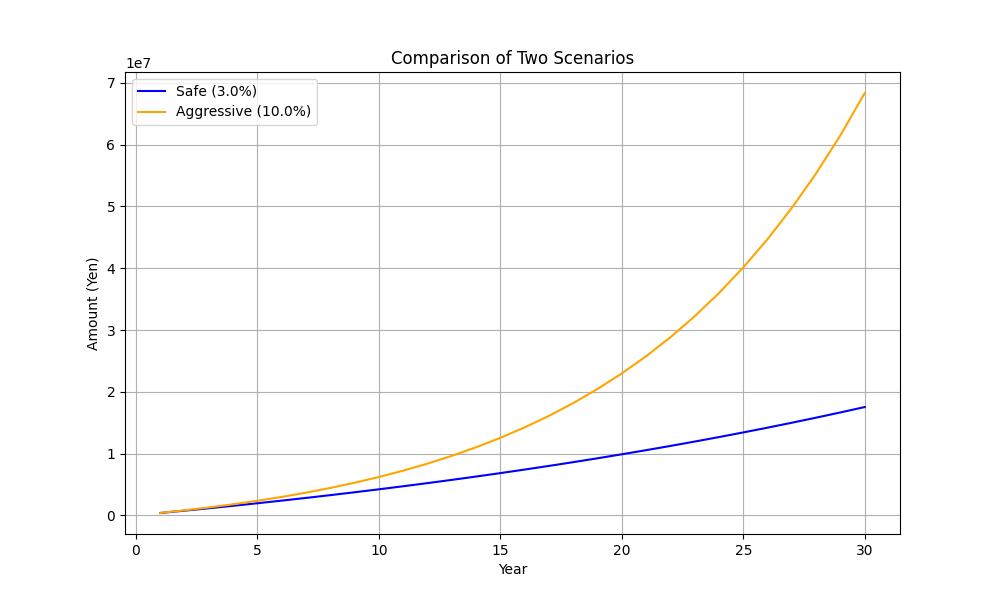
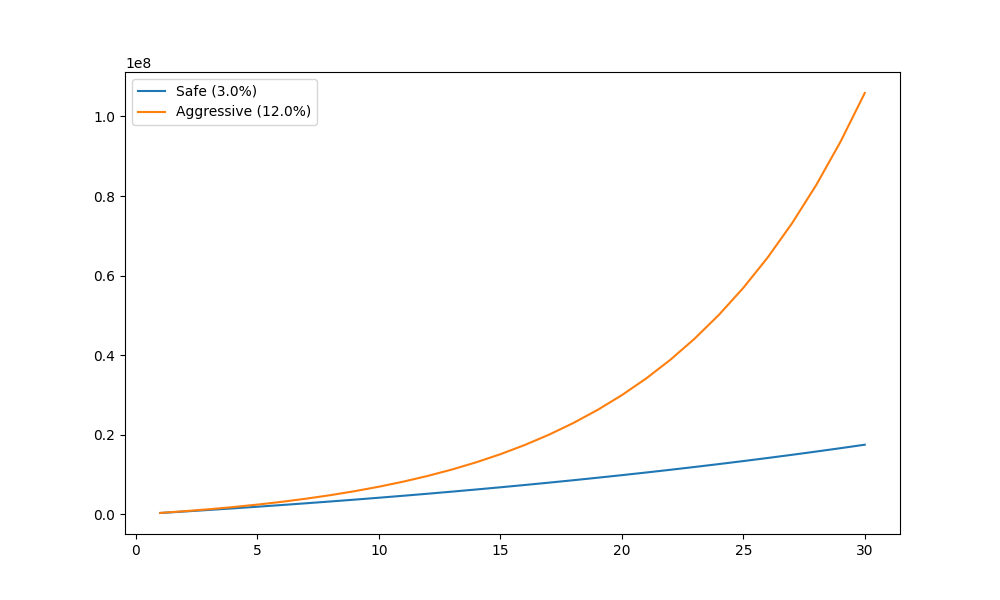
ファイル出力機能を追加しシミュレーター完成

diff --git a/invest_pro.py b/invest_pro.py
@@ -3,51 +3,47 @@ import matplotlib.pyplot as plt
 # --- ユーザー入力 ---
 initial_monthly = int(input("毎月の積立額（円）: "))
 total_years = int(input("運用期間（年）: "))
+rate_low_percent = float(input("手堅い年利（%）: "))
+rate_high_percent = float(input("積極的な年利（%）: "))
 
-# 2種類の利率を入力してもらう
-rate_low_percent = float(input("手堅いシナリオの年利（%）（例: 3）: "))
-rate_high_percent = float(input("積極的なシナリオの年利（%）（例: 5）: "))
-
-# --- 設定 ---
+# --- 設定と計算 ---
 monthly_rate_low = (rate_low_percent / 100) / 12
 monthly_rate_high = (rate_high_percent / 100) / 12
-
-# 2つの未来を貯めるためのリスト（箱）
-years_list = []
-amounts_low = []   # 手堅い方の結果用
-amounts_high = []  # 積極的な方の結果用
-
 total_low = 0
 total_high = 0
 
-# --- シミュレーション開始 ---
+years_list = []
+amounts_low = []
+amounts_high = []
+
 for month in range(1, total_years * 12 + 1):
-    # 両方のシナリオを同時に計算していく
     total_low = (total_low + initial_monthly) * (1 + monthly_rate_low)
     total_high = (total_high + initial_monthly) * (1 + monthly_rate_high)
     
     if month % 12 == 0:
-        year = month // 12
-        years_list.append(year)
+        years_list.append(month // 12)
         amounts_low.append(total_low)
         amounts_high.append(total_high)
 
-# --- 結果発表 ---
-print("-" * 50)
-print(f"{total_years}年後の差額は 【{total_high - total_low:,.0f}円】 です！")
-print("-" * 50)
+# ★ここが今回の主役！：結果をテキストファイルに書き出す
+# 'w' は Write（書き込み）の意味です
+with open("invest_result.txt", "w", encoding="utf-8") as f:
+    f.write("【積立投資シミュレーション結果報告書】\n")
+    f.write("-" * 40 + "\n")
+    f.write(f"運用期間: {total_years}年\n")
+    f.write(f"毎月の積立額: {initial_monthly:,}円\n\n")
+    f.write(f"シナリオ1（{rate_low_percent}%）の結果: {total_low:,.0f}円\n")
+    f.write(f"シナリオ2（{rate_high_percent}%）の結果: {total_high:,.0f}円\n")
+    f.write(f"その差額: {total_high - total_low:,.0f}円\n")
+    f.write("-" * 40 + "\n")
+    f.write("この結果を元に、投資計画を検討しましょう。")
+
+print("\n>>> 計算結果を 'invest_result.txt' に保存しました！")
 
 # --- グラフの作成 ---
 plt.figure(figsize=(10, 6))
-
-# 2本の線を引く（labelを変えるのがポイント）
-plt.plot(years_list, amounts_low, label=f"Safe ({rate_low_percent}%)", color="blue")
-plt.plot(years_list, amounts_high, label=f"Aggressive ({rate_high_percent}%)", color="orange")
-
-plt.title("Comparison of Two Scenarios")
-plt.xlabel("Year")
-plt.ylabel("Amount (Yen)")
-plt.grid(True)
-plt.legend() # これでどっちの線が何かを表示する
+plt.plot(years_list, amounts_low, label=f"Safe ({rate_low_percent}%)")
+plt.plot(years_list, amounts_high, label=f"Aggressive ({rate_high_percent}%)")
+plt.legend()
 plt.savefig("comparison_graph.png")
 plt.show()
